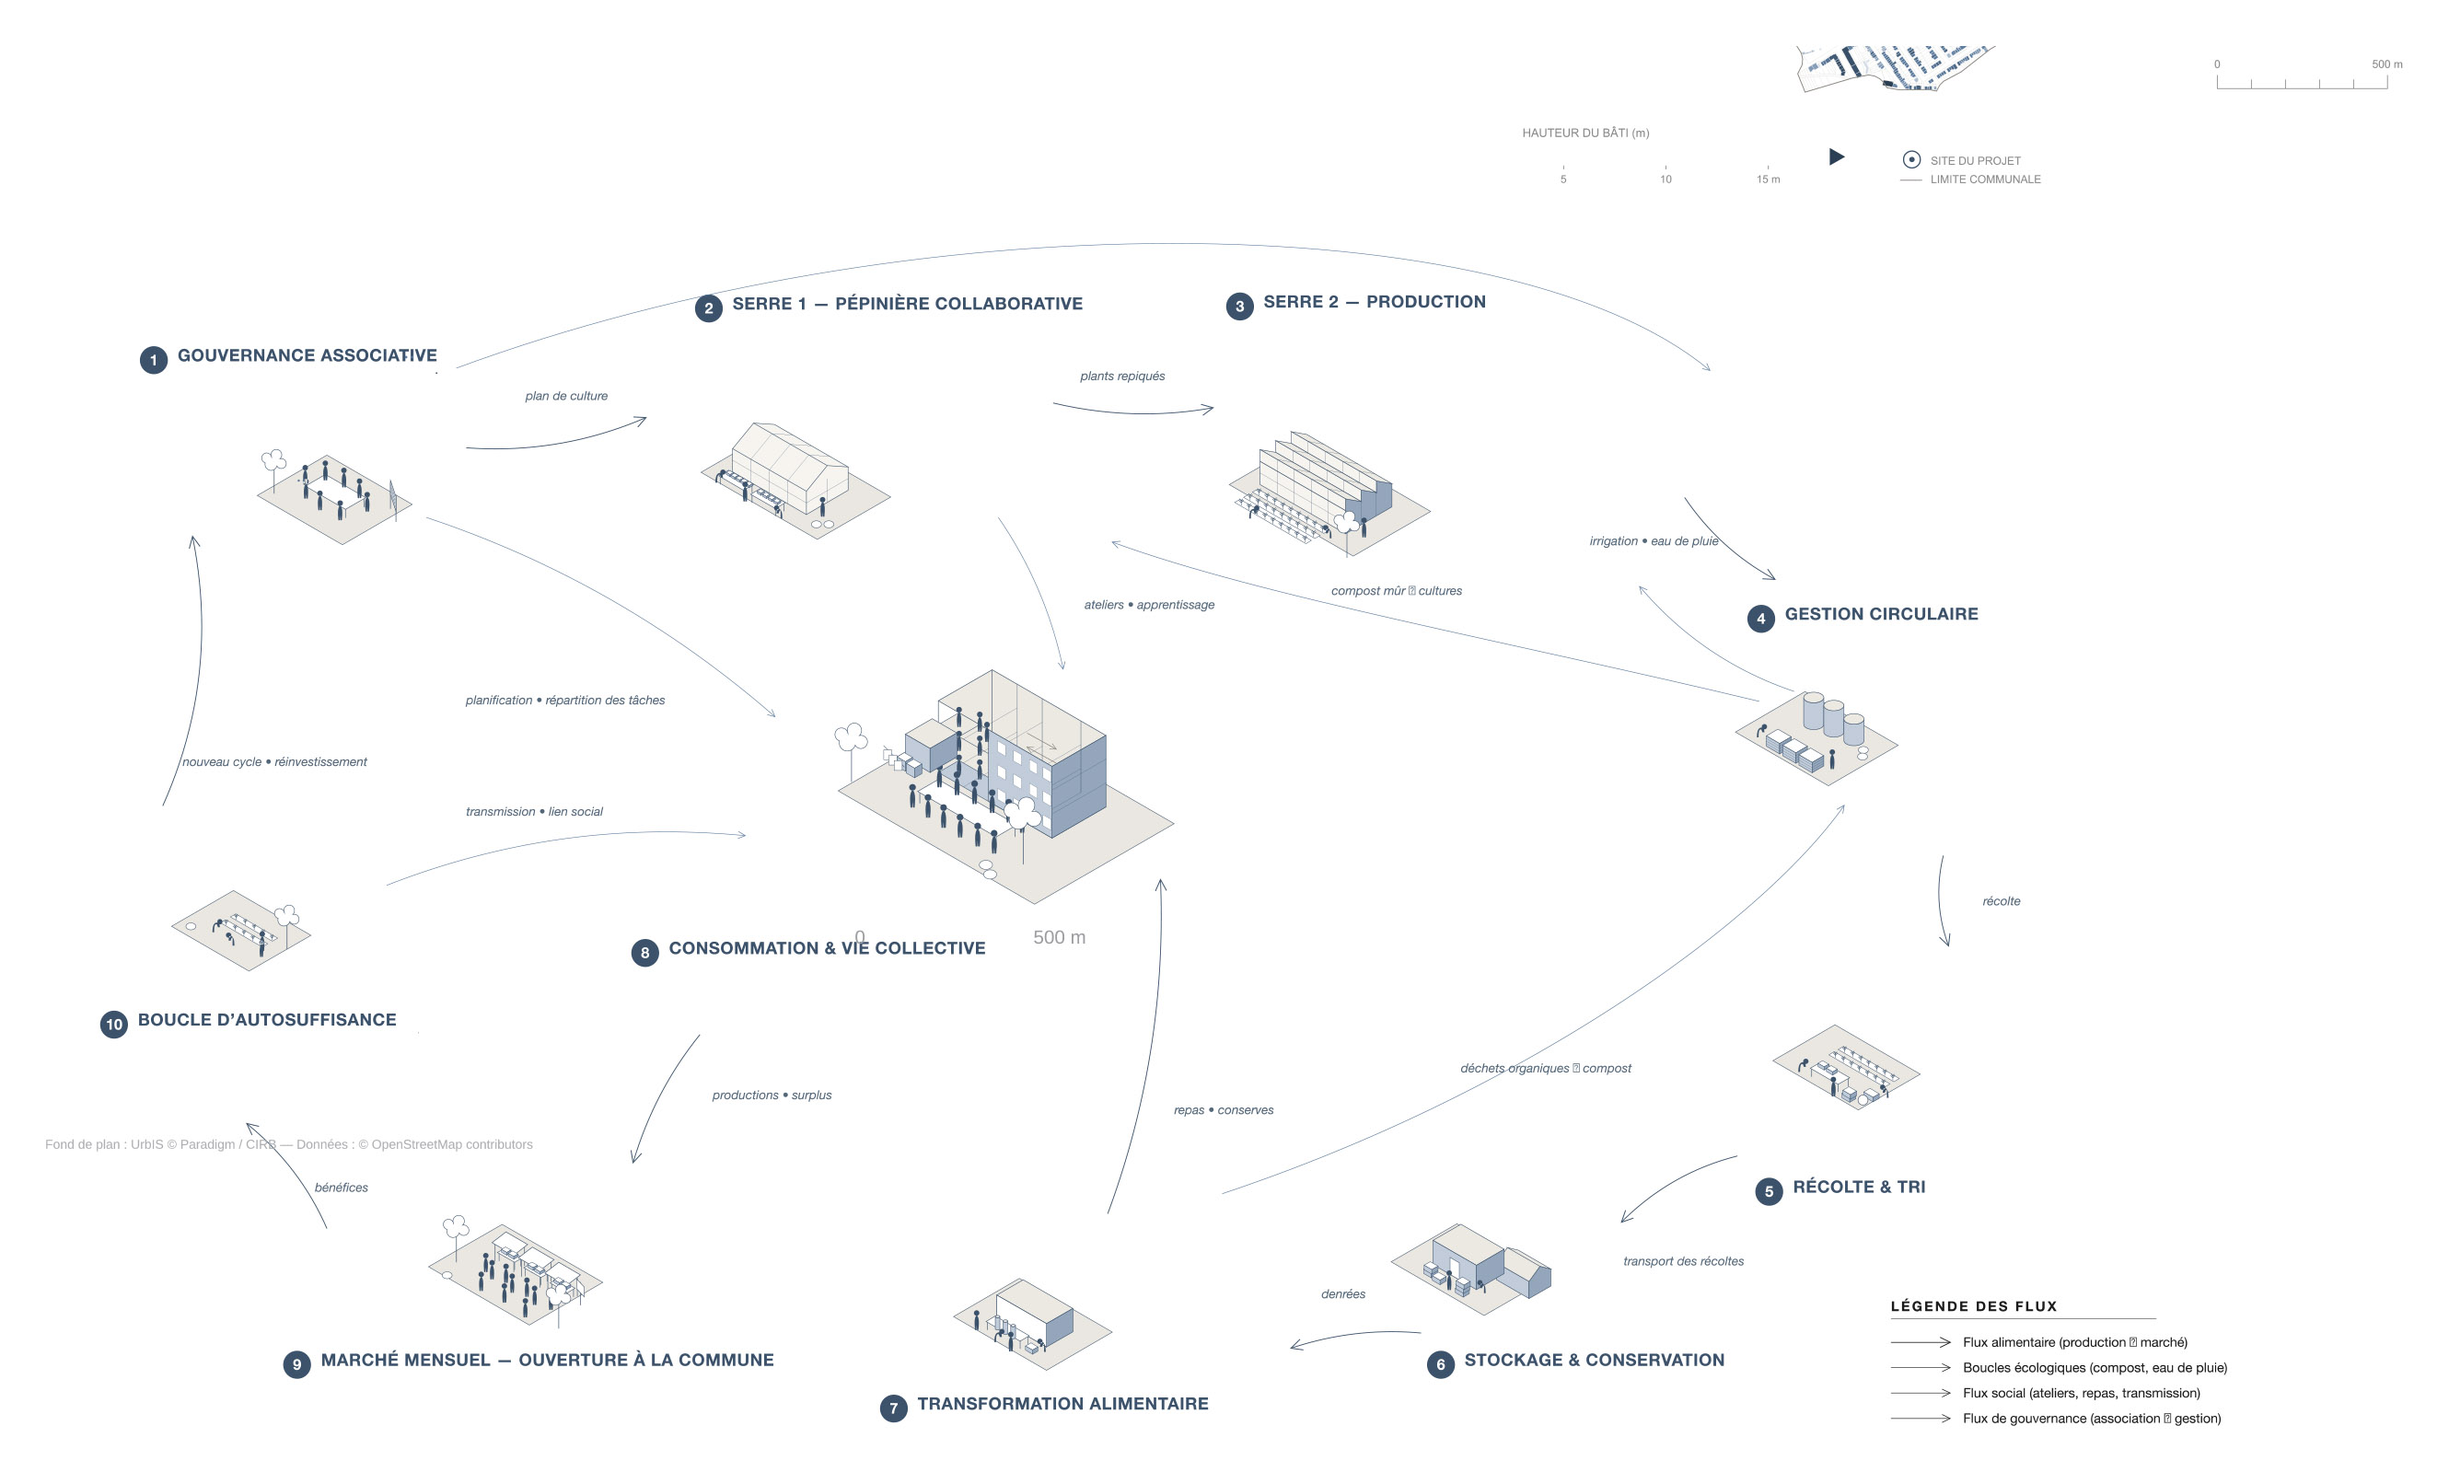
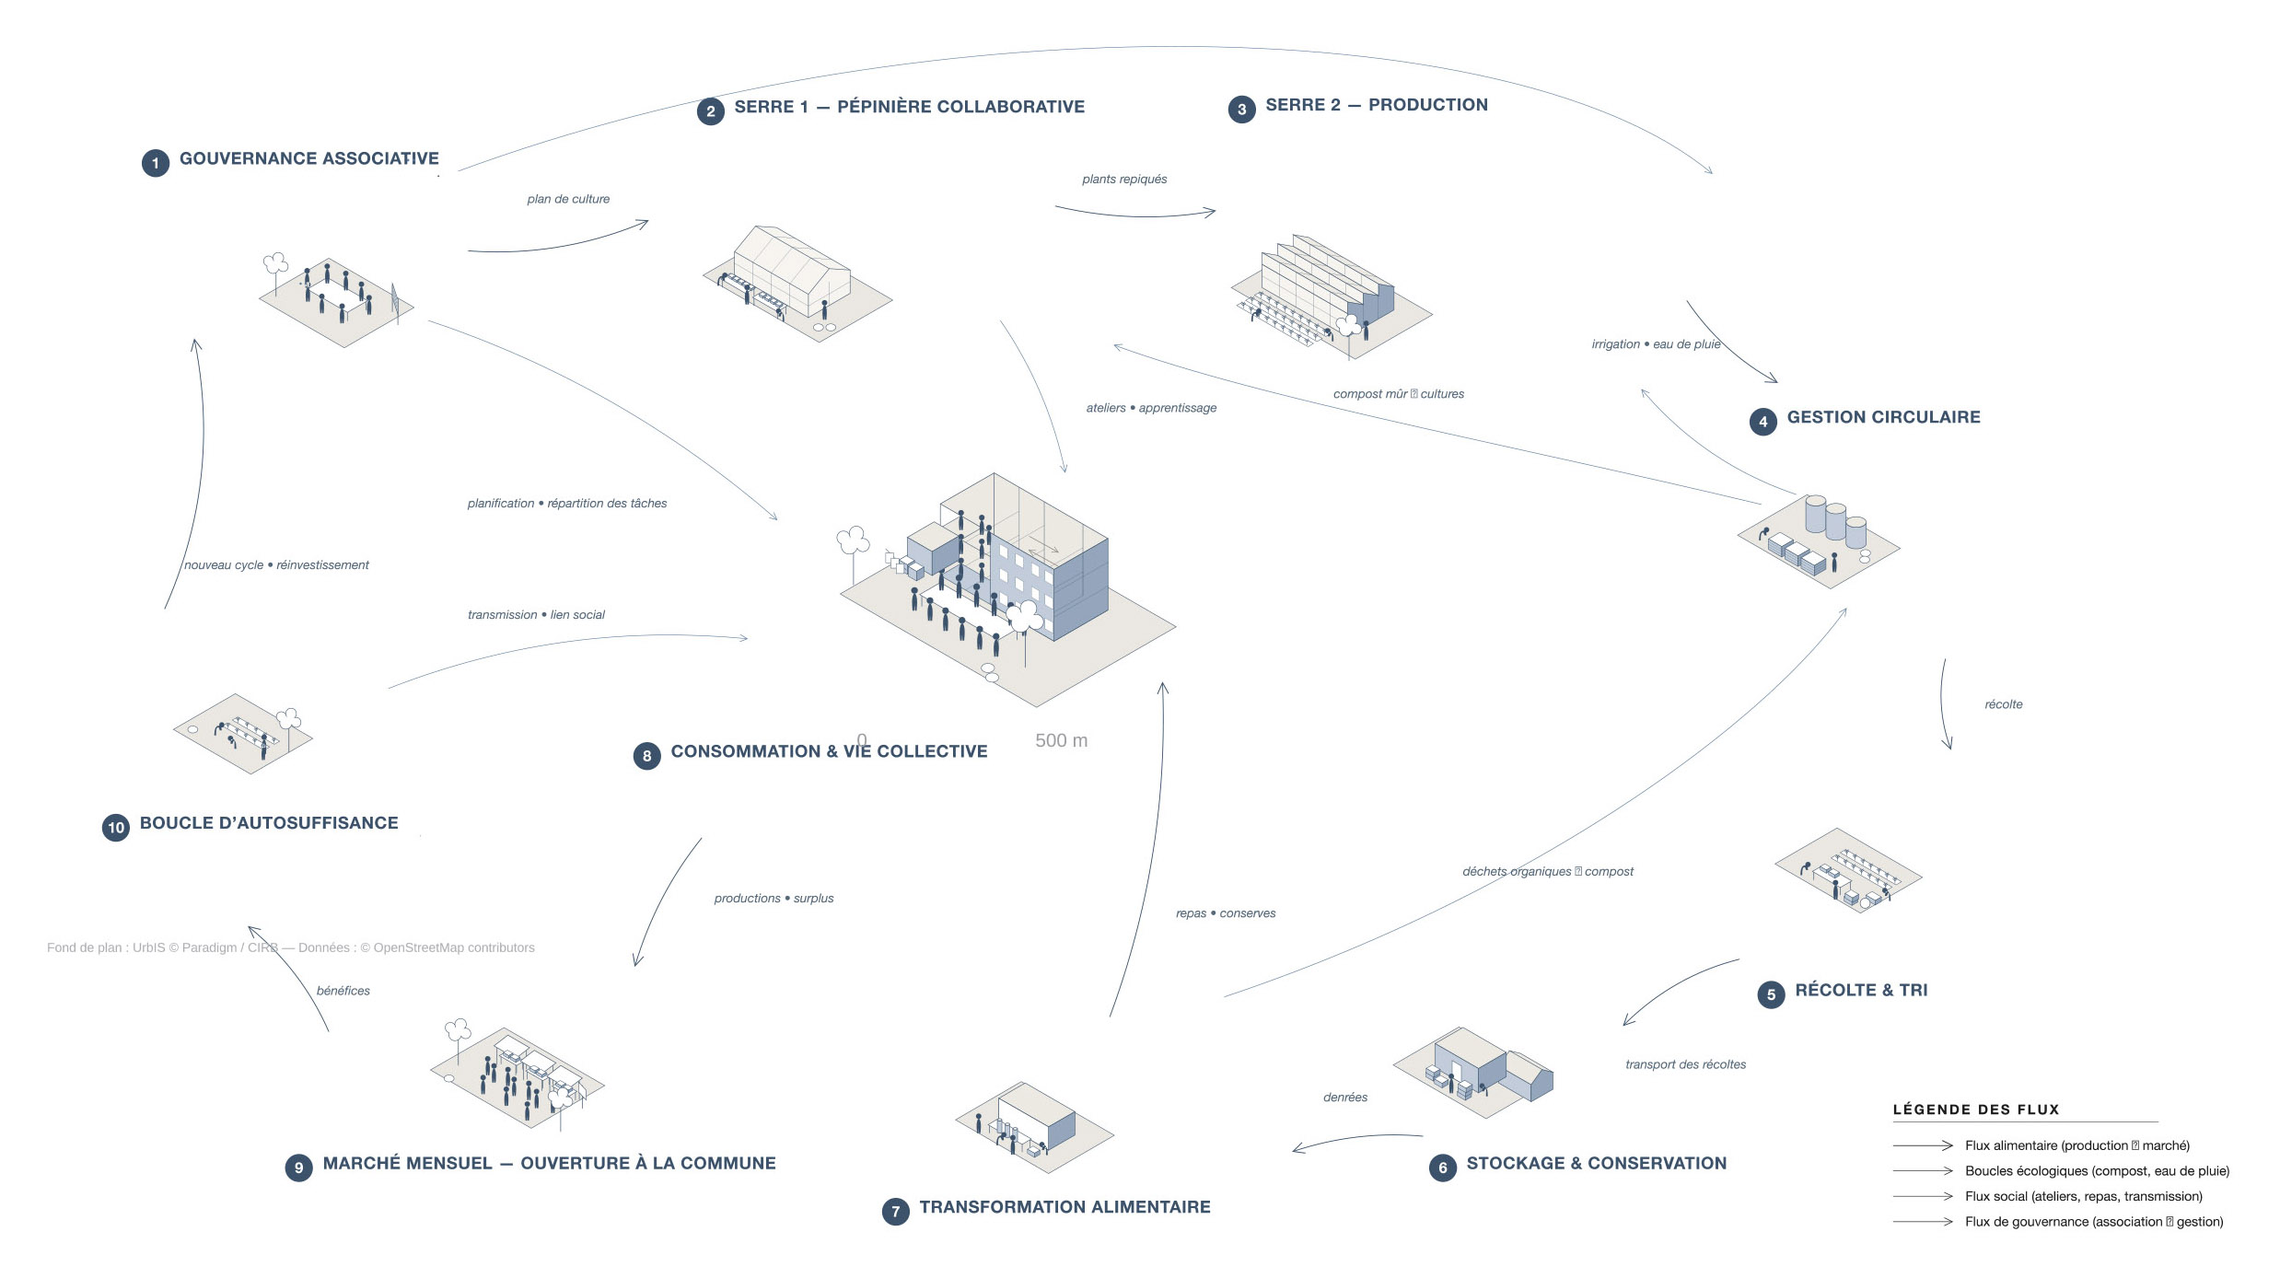
Implantation sans cartouche ni horloge, cycle sans fragment de carte

diff --git a/projets/habiter-produire-partager.html b/projets/habiter-produire-partager.html
@@ -129,7 +129,7 @@
     </figure>
 
     <figure class="suite apparait">
-      <img src="images/hpp-implantation.jpg?v=2" alt="plan d'implantation — les deux maisons et le jardin productif dans l'îlot" loading="lazy">
+      <img src="images/hpp-implantation.jpg?v=3" alt="plan d'implantation — les deux maisons et le jardin productif dans l'îlot" loading="lazy">
       <figcaption>deux maisons tenues par le jardin productif, dans la profondeur de la parcelle</figcaption>
     </figure>
 
@@ -172,7 +172,7 @@
     </div>
 
     <figure class="suite apparait">
-      <img src="images/hpp-cycle.jpg?v=2" alt="diagramme du cycle de fonctionnement, de la gouvernance associative au marché mensuel" loading="lazy">
+      <img src="images/hpp-cycle.jpg?v=3" alt="diagramme du cycle de fonctionnement, de la gouvernance associative au marché mensuel" loading="lazy">
       <figcaption>le fonctionnement en boucle — produire, transformer, partager, réinvestir</figcaption>
     </figure>
 
